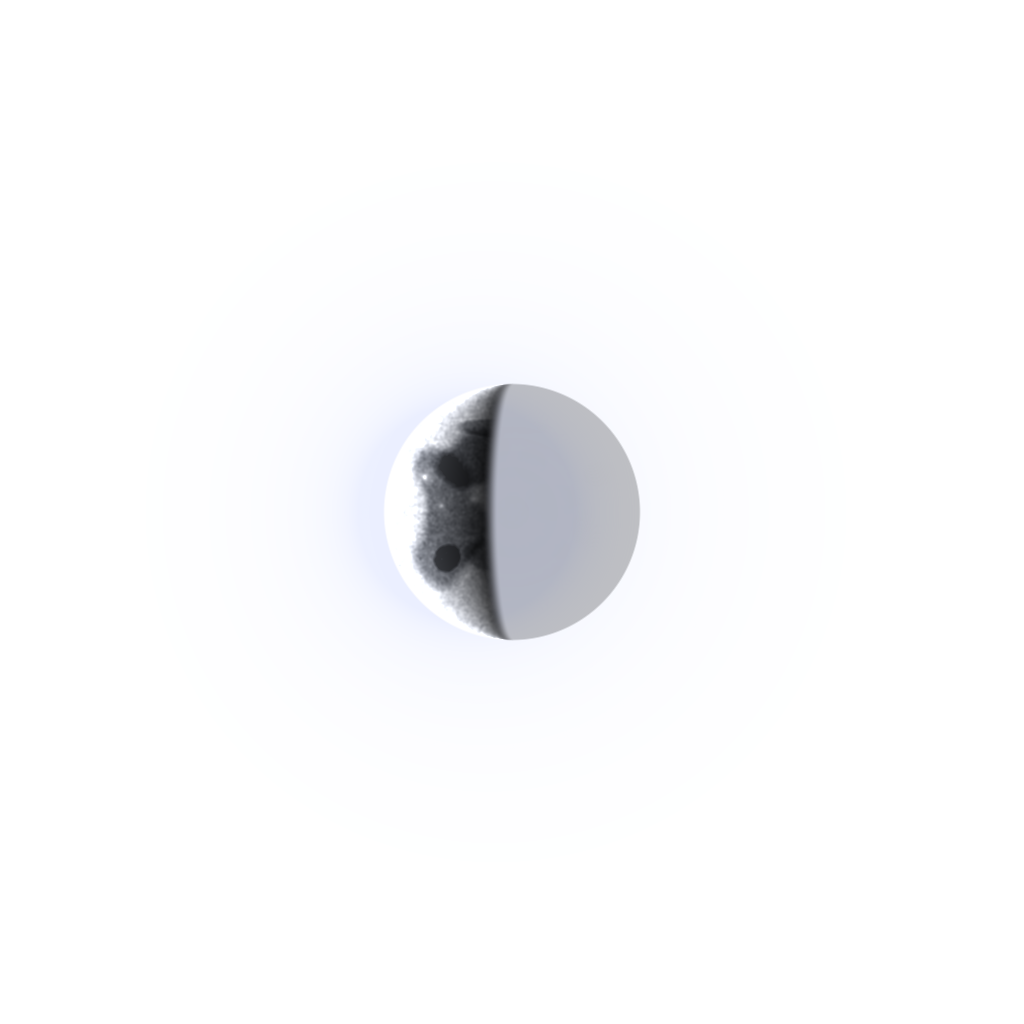
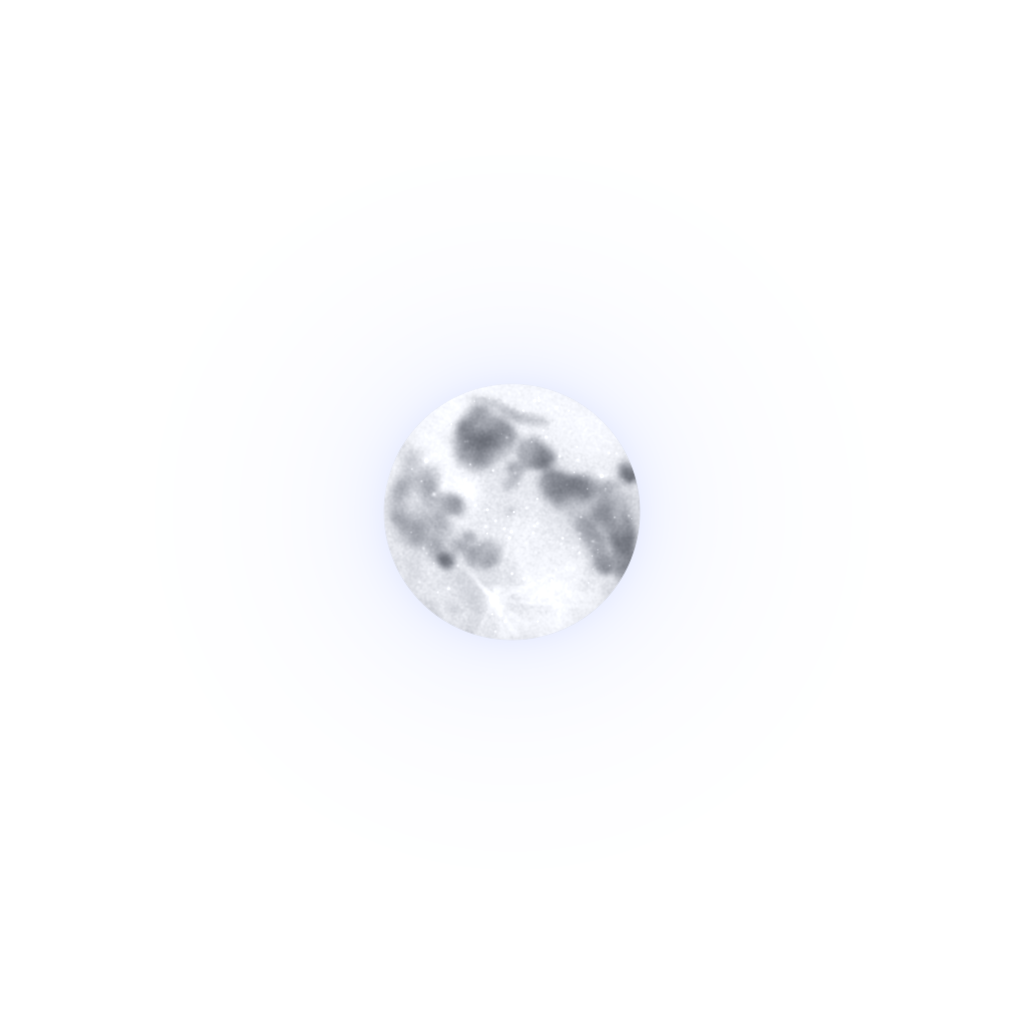
Daylight dark: always show a full moon
The moon no longer follows the date's phase; it is drawn full on every
screen, as a steady symbol.

- tools/moon.py renders a full moon: maria placed from real
  selenographic positions with organic, connected outlines, Tycho with
  faint rays, flat full-moon brightness with a hint of rim shading, a
  halo around the whole disc; both images now share one face
- Tab bar: the half-moon dot in the Today icon is now a full dot
- Canvas note and README updated

Claude-Session: https://claude.ai/code/session_01HLREcQEC5dC63YLK1vyZga

Changed region(s): [[0.375, 0.375, 0.625, 0.625]]

diff --git a/canvas/project/Daylight-Dark-3-Plans.dc.html b/canvas/project/Daylight-Dark-3-Plans.dc.html
@@ -78,7 +78,7 @@
 
   <nav class="dl-tabbar" aria-label="Main">
     <button type="button" class="dl-tab">
-      <svg width="24" height="22" viewBox="0 0 24 22" fill="none" aria-hidden="true"><path d="M5 12 A 7 7 0 0 1 19 12" stroke="currentColor" stroke-width="1.8" stroke-linecap="round"></path><path d="M19 12 A 7 7 0 0 1 5 12" stroke="currentColor" stroke-width="1.5" stroke-linecap="round" opacity="0.35"></path><path d="M1.5 12 H 22.5" stroke="currentColor" stroke-width="1.6" stroke-linecap="round"></path><circle cx="16.95" cy="7.05" r="2.7" fill="#161B38" stroke="currentColor" stroke-width="1"></circle><path d="M16.95 4.35 A 2.7 2.7 0 0 0 16.95 9.75 Z" fill="currentColor"></path></svg>
+      <svg width="24" height="22" viewBox="0 0 24 22" fill="none" aria-hidden="true"><path d="M5 12 A 7 7 0 0 1 19 12" stroke="currentColor" stroke-width="1.8" stroke-linecap="round"></path><path d="M19 12 A 7 7 0 0 1 5 12" stroke="currentColor" stroke-width="1.5" stroke-linecap="round" opacity="0.35"></path><path d="M1.5 12 H 22.5" stroke="currentColor" stroke-width="1.6" stroke-linecap="round"></path><circle cx="16.95" cy="7.05" r="2.5" fill="currentColor"></circle></svg>
       Today
     </button>
     <button type="button" class="dl-tab" aria-current="page">

diff --git a/canvas/project/Daylight-Dark-1-Today.dc.html b/canvas/project/Daylight-Dark-1-Today.dc.html
@@ -86,7 +86,7 @@
 
   <nav class="dl-tabbar" aria-label="Main">
     <button type="button" class="dl-tab" aria-current="page">
-      <svg width="24" height="22" viewBox="0 0 24 22" fill="none" aria-hidden="true"><path d="M5 12 A 7 7 0 0 1 19 12" stroke="currentColor" stroke-width="1.8" stroke-linecap="round"></path><path d="M19 12 A 7 7 0 0 1 5 12" stroke="currentColor" stroke-width="1.5" stroke-linecap="round" opacity="0.35"></path><path d="M1.5 12 H 22.5" stroke="currentColor" stroke-width="1.6" stroke-linecap="round"></path><circle cx="16.95" cy="7.05" r="2.9" fill="#0C1124" stroke="#C9D4FF" stroke-width="1"></circle><path d="M16.95 4.15 A 2.9 2.9 0 0 0 16.95 9.95 Z" fill="#C9D4FF"></path></svg>
+      <svg width="24" height="22" viewBox="0 0 24 22" fill="none" aria-hidden="true"><path d="M5 12 A 7 7 0 0 1 19 12" stroke="currentColor" stroke-width="1.8" stroke-linecap="round"></path><path d="M19 12 A 7 7 0 0 1 5 12" stroke="currentColor" stroke-width="1.5" stroke-linecap="round" opacity="0.35"></path><path d="M1.5 12 H 22.5" stroke="currentColor" stroke-width="1.6" stroke-linecap="round"></path><circle cx="16.95" cy="7.05" r="2.7" fill="#C9D4FF"></circle></svg>
       Today
     </button>
     <button type="button" class="dl-tab">

diff --git a/canvas/project/Daylight-Dark-6-Progress.dc.html b/canvas/project/Daylight-Dark-6-Progress.dc.html
@@ -82,7 +82,7 @@
 
   <nav class="dl-tabbar" aria-label="Main">
     <button type="button" class="dl-tab">
-      <svg width="24" height="22" viewBox="0 0 24 22" fill="none" aria-hidden="true"><path d="M5 12 A 7 7 0 0 1 19 12" stroke="currentColor" stroke-width="1.8" stroke-linecap="round"></path><path d="M19 12 A 7 7 0 0 1 5 12" stroke="currentColor" stroke-width="1.5" stroke-linecap="round" opacity="0.35"></path><path d="M1.5 12 H 22.5" stroke="currentColor" stroke-width="1.6" stroke-linecap="round"></path><circle cx="16.95" cy="7.05" r="2.7" fill="#161B38" stroke="currentColor" stroke-width="1"></circle><path d="M16.95 4.35 A 2.7 2.7 0 0 0 16.95 9.75 Z" fill="currentColor"></path></svg>
+      <svg width="24" height="22" viewBox="0 0 24 22" fill="none" aria-hidden="true"><path d="M5 12 A 7 7 0 0 1 19 12" stroke="currentColor" stroke-width="1.8" stroke-linecap="round"></path><path d="M19 12 A 7 7 0 0 1 5 12" stroke="currentColor" stroke-width="1.5" stroke-linecap="round" opacity="0.35"></path><path d="M1.5 12 H 22.5" stroke="currentColor" stroke-width="1.6" stroke-linecap="round"></path><circle cx="16.95" cy="7.05" r="2.5" fill="currentColor"></circle></svg>
       Today
     </button>
     <button type="button" class="dl-tab">

diff --git a/canvas/project/Daylight-Dark-6b-Progress-All.dc.html b/canvas/project/Daylight-Dark-6b-Progress-All.dc.html
@@ -99,7 +99,7 @@
 
   <nav class="dl-tabbar" aria-label="Main">
     <button type="button" class="dl-tab">
-      <svg width="24" height="22" viewBox="0 0 24 22" fill="none" aria-hidden="true"><path d="M5 12 A 7 7 0 0 1 19 12" stroke="currentColor" stroke-width="1.8" stroke-linecap="round"></path><path d="M19 12 A 7 7 0 0 1 5 12" stroke="currentColor" stroke-width="1.5" stroke-linecap="round" opacity="0.35"></path><path d="M1.5 12 H 22.5" stroke="currentColor" stroke-width="1.6" stroke-linecap="round"></path><circle cx="16.95" cy="7.05" r="2.7" fill="#161B38" stroke="currentColor" stroke-width="1"></circle><path d="M16.95 4.35 A 2.7 2.7 0 0 0 16.95 9.75 Z" fill="currentColor"></path></svg>
+      <svg width="24" height="22" viewBox="0 0 24 22" fill="none" aria-hidden="true"><path d="M5 12 A 7 7 0 0 1 19 12" stroke="currentColor" stroke-width="1.8" stroke-linecap="round"></path><path d="M19 12 A 7 7 0 0 1 5 12" stroke="currentColor" stroke-width="1.5" stroke-linecap="round" opacity="0.35"></path><path d="M1.5 12 H 22.5" stroke="currentColor" stroke-width="1.6" stroke-linecap="round"></path><circle cx="16.95" cy="7.05" r="2.5" fill="currentColor"></circle></svg>
       Today
     </button>
     <button type="button" class="dl-tab">

diff --git a/tools/moon.py b/tools/moon.py
@@ -1,12 +1,10 @@
 """Renders the Daylight (dark) moon as a transparent PNG, in the same spirit as sun.py.
 
+The moon is always full, whatever the date: a steady symbol, not an almanac.
 Photographic cues, softened: the maria in roughly their real places on the near side,
-a few bright young craters, regolith grain, Lommel–Seeliger shading (the moon looks
-flat-lit, not like a matte ball), a soft terminator, faint earthshine on the dark side
-and a cool halo centred on the lit part.
-
-The phase is the real one for the date on the screens, Sunday 4 October 2026: last
-quarter, about 43 % lit, waning, so the left half is lit as seen from Europe.
+bright young craters (Tycho with faint rays), regolith grain, the flat look of a full
+moon lit straight on (Lommel–Seeliger at zero phase gives no limb darkening), only a
+hint of rim shading to keep it round, and a cool halo.
 
   python3 tools/moon.py canvas/project
 writes moon.png (high in the sky) and moon-low.png (rising: warmer, a touch flattened).
@@ -18,21 +16,32 @@ from PIL import Image
 S = 1024
 R = 128
 
-# (u, v, rx, ry, depth) in disc units, north up, as seen from the northern hemisphere
+# (u, v, rx, ry, depth) in disc units, north up, as seen from the northern hemisphere.
+# Centres follow the real selenographic positions projected onto the disc.
 MARIA = [
-    (-0.50, 0.02, 0.30, 0.52, 0.30),   # Oceanus Procellarum
-    (-0.28, -0.38, 0.26, 0.24, 0.36),  # Mare Imbrium
-    (0.00, -0.66, 0.42, 0.07, 0.24),   # Mare Frigoris
-    (0.15, -0.36, 0.15, 0.15, 0.34),   # Mare Serenitatis
-    (0.30, -0.08, 0.21, 0.16, 0.34),   # Mare Tranquillitatis
-    (0.66, -0.30, 0.11, 0.09, 0.36),   # Mare Crisium
-    (0.56, 0.12, 0.12, 0.16, 0.28),    # Mare Fecunditatis
-    (0.36, 0.27, 0.09, 0.09, 0.26),    # Mare Nectaris
-    (-0.18, 0.36, 0.18, 0.13, 0.26),   # Mare Nubium
-    (-0.50, 0.36, 0.09, 0.09, 0.30),   # Mare Humorum
-    (0.00, -0.12, 0.08, 0.06, 0.20),   # Sinus Medii / Mare Vaporum
+    (-0.70, -0.08, 0.26, 0.50, 0.20),  # Oceanus Procellarum
+    (-0.23, -0.52, 0.29, 0.24, 0.27),  # Mare Imbrium
+    (0.02, -0.80, 0.40, 0.06, 0.13),   # Mare Frigoris
+    (0.27, -0.46, 0.18, 0.16, 0.28),   # Mare Serenitatis
+    (0.49, -0.13, 0.22, 0.19, 0.27),   # Mare Tranquillitatis
+    (0.80, -0.29, 0.09, 0.13, 0.30),   # Mare Crisium
+    (0.73, 0.14, 0.13, 0.21, 0.22),    # Mare Fecunditatis
+    (0.55, 0.27, 0.09, 0.09, 0.21),    # Mare Nectaris
+    (-0.25, 0.36, 0.20, 0.14, 0.20),   # Mare Nubium
+    (-0.56, 0.41, 0.09, 0.10, 0.24),   # Mare Humorum
+    (-0.47, -0.10, 0.13, 0.10, 0.18),  # Mare Insularum
+    (-0.38, 0.17, 0.08, 0.07, 0.16),   # Mare Cognitum
+    (0.06, -0.23, 0.08, 0.06, 0.18),   # Mare Vaporum
+    (0.03, -0.04, 0.06, 0.04, 0.12),   # Sinus Medii
+    (0.10, -0.33, 0.12, 0.06, 0.13),   # (between Imbrium and Serenitatis)
+    (0.62, 0.04, 0.10, 0.12, 0.15),    # (Tranquillitatis to Fecunditatis)
+    (0.53, 0.13, 0.07, 0.10, 0.14),    # (Tranquillitatis to Nectaris)
+    (-0.45, 0.26, 0.12, 0.10, 0.14),   # (Nubium, Cognitum, Humorum, Procellarum)
 ]
-BRIGHT = [(-0.12, 0.72, 0.035, 0.30), (-0.30, -0.10, 0.028, 0.22), (-0.68, -0.27, 0.02, 0.32), (-0.55, -0.05, 0.018, 0.16)]
+# (u, v, radius, gain): Tycho, Copernicus, Kepler, Aristarchus, Proclus
+BRIGHT = [(-0.14, 0.69, 0.030, 0.20), (-0.34, -0.17, 0.026, 0.16), (-0.61, -0.14, 0.018, 0.12),
+          (-0.67, -0.40, 0.016, 0.14), (0.70, -0.28, 0.014, 0.12)]
+TYCHO = BRIGHT[0]
 
 
 def blur(a, sigma):
@@ -48,58 +57,64 @@ def smoothstep(e0, e1, x):
     return t * t * (3 - 2 * t)
 
 
-def render(lit_tint, mare_tint, shine_tint, halo, flatten=1.0, seed=3, shade=0.24, veil=1.0):
+def render(lit_tint, mare_tint, halo, flatten=1.0, gain=1.0, seed=3):
     rng = np.random.default_rng(seed)
     y, x = np.mgrid[0:S, 0:S].astype(np.float64)
     u = (x - S / 2 + 0.5) / R
     v = (y - S / 2 + 0.5) / (R * flatten)
     rr = np.sqrt(u ** 2 + v ** 2)
-    inside = rr <= 1
     nz = np.sqrt(np.clip(1 - rr ** 2, 0, 1))
 
-    # albedo: highlands, maria with ragged edges, bright craters, grain
-    wobble = blur(rng.standard_normal((S, S)), 14) ; wobble /= wobble.std()
-    albedo = np.full((S, S), 0.86)
+    def noise(sigma):
+        n = blur(rng.standard_normal((S, S)), sigma)
+        return n / n.std()
+
+    # albedo: highlands with soft mottling, merging maria with ragged edges, bright craters,
+    # Tycho's rays, small fresh craters, fine grain
+    wu, wv = 0.07 * noise(28), 0.07 * noise(28)                   # domain warp: organic outlines
+    edge = 0.12 * noise(10) + 0.06 * noise(4)
+    uw, vw = u + wu, v + wv
+    mask = np.zeros((S, S))
     for (cu, cv, rx, ry, depth) in MARIA:
-        d = np.sqrt(((u - cu) / rx) ** 2 + ((v - cv) / ry) ** 2) + 0.18 * wobble
-        albedo -= depth * (1 - smoothstep(0.75, 1.15, d))
-    for (cu, cv, r0, gain) in BRIGHT:
+        parts = [(cu, cv, rx, ry)] + [(cu + rng.uniform(-0.3, 0.3) * rx, cv + rng.uniform(-0.3, 0.3) * ry,
+                                        rx * rng.uniform(0.55, 0.85), ry * rng.uniform(0.55, 0.85)) for _ in range(3)]
+        for (pu, pv, px, py) in parts:
+            d = np.sqrt(((uw - pu) / px) ** 2 + ((vw - pv) / py) ** 2) + edge
+            mask = np.maximum(mask, depth * (1 - smoothstep(0.5, 1.15, d)))
+    mask = blur(mask, 3)
+    south = smoothstep(0.1, 0.7, v)                                 # the cratered southern highlands
+    albedo = 0.86 + 0.03 * noise(30) - 0.03 * south * np.abs(noise(9)) - mask * (0.9 + 0.2 * noise(8))
+    for (cu, cv, r0, g) in BRIGHT:
         d = np.sqrt((u - cu) ** 2 + (v - cv) ** 2)
-        albedo += gain * np.exp(-(d / r0) ** 2) + 0.35 * gain * np.exp(-(d / (r0 * 4)) ** 2)
-    grain = blur(rng.standard_normal((S, S)), 1.2); grain /= grain.std()
-    pits = blur(rng.standard_normal((S, S)), 3.5); pits /= pits.std()
-    albedo += 0.025 * grain + 0.03 * np.clip(pits, -3, 0) * 0.5
+        albedo += g * np.exp(-(d / r0) ** 2) + 0.35 * g * np.exp(-(d / (r0 * 4)) ** 2)
+    tu, tv = TYCHO[0], TYCHO[1]
+    td = np.sqrt((u - tu) ** 2 + (v - tv) ** 2)
+    ta = np.arctan2(v - tv, u - tu)
+    for ang, length, g in zip(rng.uniform(-np.pi, np.pi, 12), rng.uniform(0.4, 1.2, 12), rng.uniform(0.02, 0.045, 12)):
+        da = np.angle(np.exp(1j * (ta - ang)))                     # wrapped angle difference
+        albedo += g * np.exp(-(da * td / 0.02) ** 2) * np.exp(-td / length) * smoothstep(0.03, 0.08, td)
+    for _ in range(90):
+        r = np.sqrt(rng.uniform(0, 0.9)); th = rng.uniform(0, 2 * np.pi)
+        cu, cv, r0 = r * np.cos(th), r * np.sin(th), rng.uniform(0.006, 0.014)
+        albedo += rng.uniform(0.04, 0.10) * np.exp(-(((u - cu) ** 2 + (v - cv) ** 2) / r0 ** 2))
+    albedo += 0.008 * noise(1.0)
     albedo = np.clip(albedo, 0.3, 1.1)
 
-    # light: last quarter, slightly past (43 % lit), sun to the left and a little behind
-    alpha = np.radians(98)
-    L = np.array([-np.sin(alpha), 0.0, np.cos(alpha)])
-    mu0 = u * L[0] + v * L[1] + nz * L[2]
-    mu = nz
-    ls = np.where(mu0 > 0, 2 * mu0 / (mu0 + mu + 1e-6), 0)          # Lommel–Seeliger, ~1 across the lit disc
-    term = smoothstep(-0.03, 0.10, mu0)                               # soft terminator
-    lit = np.clip(ls, 0, 1.15) * term
-
-    lit_tint, mare_tint, shine_tint = (np.array(c, float) for c in (lit_tint, mare_tint, shine_tint))
-    t = np.clip((albedo - 0.45) / 0.55, 0, 1)[..., None]
-    surface = mare_tint * (1 - t) + lit_tint * t
-    rgb = surface * (np.clip(1.12 * lit * albedo / 0.86, 0, 1.18))[..., None]
-    rgb += shine_tint[None, None, :] * (0.032 * albedo * (1 - term))[..., None]       # earthshine, faint
+    # full moon, lit straight on: flat brightness, a hint of rim shading
+    rim = 0.92 + 0.08 * nz ** 0.35
+    t = np.clip((albedo - 0.5) / 0.36, 0, 1)[..., None]
+    surface = np.array(mare_tint, float) * (1 - t) + np.array(lit_tint, float) * t
+    rgb = surface * np.clip(gain * rim * albedo / 0.86, 0, 1.12)[..., None]
     disc_a = np.clip((1 + 0.9 / R - rr) * R / 1.8, 0, 1)
-    disc_a = np.where(inside | (disc_a > 0), disc_a, 0)
-    edge = disc_a.copy()
-    disc_a = disc_a * (shade + (1 - shade) * term)      # the unlit side lets the night sky through, like a faint silhouette
 
-    # halo centred on the lit part
-    hu, hv = u + 0.35, v
-    hd = np.clip(np.sqrt(hu ** 2 + hv ** 2) - 0.85, 0, None) * R
+    # halo around the whole disc
+    hd = np.clip(rr - 1.0, 0, None) * R
     h1 = halo[0] * np.exp(-hd / (0.16 * R))
     h2 = halo[1] * np.exp(-hd / (0.70 * R))
     h3 = halo[2] * np.exp(-hd / (2.0 * R))
     window = np.clip(1 - ((np.sqrt((x - S / 2) ** 2 + (y - S / 2) ** 2)) / (S / 2)) ** 2, 0, 1) ** 2
     h1, h2, h3 = h1 * window, h2 * window, h3 * window
     ga = 1 - (1 - h1) * (1 - h2) * (1 - h3)
-    ga = ga * (1 - edge * (1 - veil) * (1 - term))      # veil < 1 keeps the glow off the dark side
     gcol = np.array(halo[3], float)
 
     a = disc_a + (1 - disc_a) * ga
@@ -110,9 +125,8 @@ def render(lit_tint, mare_tint, shine_tint, halo, flatten=1.0, seed=3, shade=0.2
 
 if __name__ == '__main__':
     out = sys.argv[1] if len(sys.argv) > 1 else '.'
-    render(lit_tint=(244, 246, 252), mare_tint=(166, 172, 186), shine_tint=(120, 136, 176),
+    render(lit_tint=(244, 246, 252), mare_tint=(190, 196, 212),
            halo=(0.30, 0.16, 0.08, (206, 216, 255))).save(f'{out}/moon.png', optimize=True)
-    render(lit_tint=(255, 236, 206), mare_tint=(190, 168, 150), shine_tint=(130, 120, 150),
-           halo=(0.34, 0.20, 0.11, (255, 218, 182)), flatten=0.95, seed=5,
-           shade=0.16, veil=0.45).save(f'{out}/moon-low.png', optimize=True)   # seen large: a quieter dark side
+    render(lit_tint=(255, 236, 206), mare_tint=(205, 180, 160),
+           halo=(0.34, 0.20, 0.11, (255, 218, 182)), flatten=0.95).save(f'{out}/moon-low.png', optimize=True)
     print('ok')

diff --git a/README.md b/README.md
@@ -20,7 +20,7 @@ Page *Five concepts*: one row per concept (plus Daylight's dark appearance as ro
 
 ### Daylight dark (variant of 4)
 
-Daylight's dark appearance, for when iOS is set to Dark Mode (canvas row 4b; also selectable on *Compare two*). The same circular path, cues, layout and content on a night sky. A rendered moon takes the sun's place as the "now" marker and the light source, and accents change from sun orange to moonlight silver and violet. The moon shows the real phase for the date on the screens (Sunday 4 October 2026: last quarter, waning, about 43 % lit); its place on the circle is the "now" marker, not its position in the real sky. The session goes one step darker than the planning screens, and at session end the moon rises behind the sheet.
+Daylight's dark appearance, for when iOS is set to Dark Mode (canvas row 4b; also selectable on *Compare two*). The same circular path, cues, layout and content on a night sky. A rendered moon takes the sun's place as the "now" marker and the light source, and accents change from sun orange to moonlight silver and violet. The moon is always full, whatever the date: a steady symbol rather than an almanac. Its place on the circle is the "now" marker, not its position in the real sky. The session goes one step darker than the planning screens, and at session end the moon rises behind the sheet.
 Tradeoff: with every screen dark, the light-planning / dark-focus contrast of the light theme is gone, so the session has to go darker still to feel different; moonlight also makes finishing feel calm rather than celebratory.
 
 ## Shared rules (all five)
@@ -38,7 +38,7 @@ Tradeoff: with every screen dark, the light-planning / dark-focus contrast of th
 - `renders/` — every screen as a 780 × 1688 PNG (@2x). `renders/sheets/` — contact sheets per concept and per screen.
 - `tools/shoot.sh` — renders boards to PNG with Playwright. It needs the canvas runtime (`support.js`, served by the Design artifact type and not included here): `DC_RUNTIME=/path/to/support.js ./tools/shoot.sh --all`.
 - `tools/geometry.py` — sample data and exact geometry for charts and progress marks. `tools/sheet.py` — contact sheets.
-- `tools/sun.py`, `tools/moon.py` — procedural renders of the Daylight sun and moon (`python3 tools/moon.py canvas/project` writes `moon.png` and `moon-low.png`).
+- `tools/sun.py`, `tools/moon.py` — procedural renders of the Daylight sun and the (always full) moon (`python3 tools/moon.py canvas/project` writes `moon.png` and `moon-low.png`).
 
 ## Hodnocení (česky)
 
@@ -49,7 +49,7 @@ Tradeoff: with every screen dark, the light-planning / dark-focus contrast of th
 - **Margin** je nejklidnější a nejuniverzálnější. Riziko: skoro žádné kontejnery, takže hodně stojí na precizní sazbě; někomu může připadat strohý.
 - **Daylight** nejvíc odpovídá současnému iOS. Riziko: má nejslabší vlastní identitu a sklo je náročné na kontrast i výkon.
 - **Cairn** je nejhmatatelnější a nejvíc emocionální. Riziko: je vizuálně nejtěžší a jeho metafora nesmí sklouznout ke sbírání.
-- **Daylight tmavý** (varianta Daylightu, ne šestý koncept) přenáší stejný systém do noci: místo slunce je tu měsíc ve skutečné fázi pro 4. října 2026 a akcenty mají barvu měsíčního světla. Riziko: když je tmavé všechno, mizí rozdíl mezi světlým plánováním a tmavým soustředěním, proto je sezení ještě o stupeň tmavší; měsíční světlo je chladnější, takže konec sezení působí spíš klidně než oslavně.
+- **Daylight tmavý** (varianta Daylightu, ne šestý koncept) přenáší stejný systém do noci: místo slunce je tu měsíc, vždy v úplňku bez ohledu na datum, a akcenty mají barvu měsíčního světla. Riziko: když je tmavé všechno, mizí rozdíl mezi světlým plánováním a tmavým soustředěním, proto je sezení ještě o stupeň tmavší; měsíční světlo je chladnější, takže konec sezení působí spíš klidně než oslavně.
 
 **Doporučené ověření s lidmi:** pětivteřinový test obrazovky Today („co uděláte teď?“), první klepnutí na Start, jestli lidé bez barev poznají úkol od rutiny, jestli Progress po pauze nevyvolává pocit viny a jestli jde v tmavém sezení přečíst čas a průběh; u tmavého Daylightu také, jestli lidé chápou měsíc jako značku „teď“.
 
